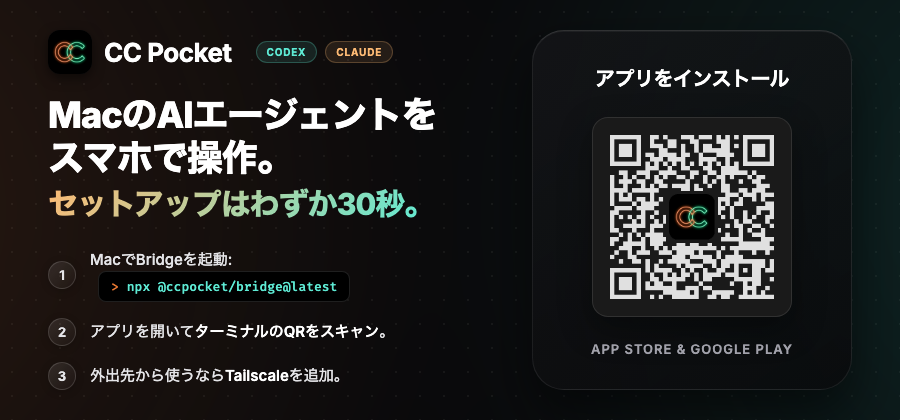
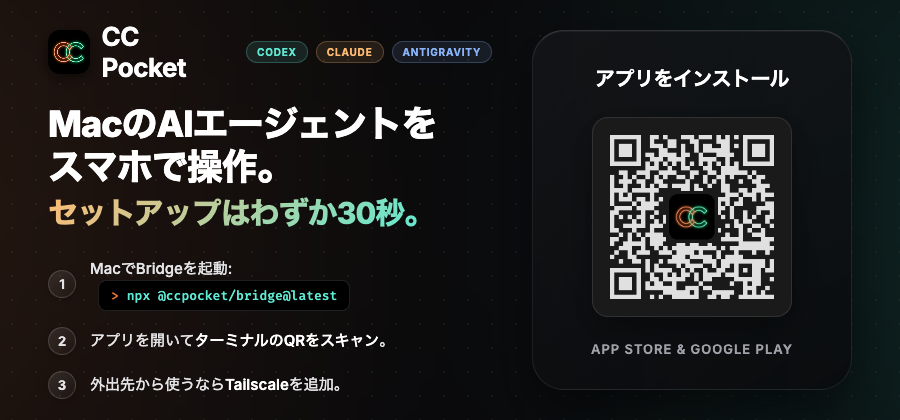
docs(lp): add Antigravity next to Codex and Claude

diff --git a/docs/install/app.js b/docs/install/app.js
@@ -10,7 +10,7 @@ const english = Object.fromEntries(
 Object.assign(english, {
   metaTitle: "CC Pocket — Your agents. In your pocket.",
   metaDescription:
-    "Codex and Claude, built for your phone. Chat, approve, review, and pick up the same work on your Mac. Free and open source.",
+    "Codex, Claude, and Antigravity, built for your phone. Chat, approve, review, and pick up the same work on your Mac. Free and open source.",
   copy: "Copy command",
   copied: "Copied",
   copyFailed: "Select and copy the command above.",
@@ -28,7 +28,7 @@ const translations = {
   ja: {
     metaTitle: "CC Pocket — エージェントを、ポケットに。",
     metaDescription:
-      "CodexとClaudeを、スマホのためのUIで。チャット、承認、差分レビュー。Macと同じセッションを、外出先でも。無料・オープンソース。",
+      "Codex、Claude、Antigravityを、スマホのためのUIで。チャット、承認、差分レビュー。Macと同じセッションを、外出先でも。無料・オープンソース。",
     skip: "本文へ移動",
     navExperience: "できること",
     navSetup: "はじめ方",
@@ -36,7 +36,7 @@ const translations = {
     hero1: "エージェントを、",
     hero2: "ポケットに。",
     heroDesc:
-      "CodexとClaudeを、スマホのためのUIで。思いついたら話しかけて、どこからでも開発の続きを。",
+      "Codex、Claude、Antigravityを、スマホのためのUIで。思いついたら話しかけて、どこからでも開発の続きを。",
     getApp: "CC Pocketを入手",
     quickStart: "はじめ方",
     freeNote: "無料。オープンソース。いつもの開発環境で。",
@@ -67,7 +67,7 @@ const translations = {
       "CodexのImagegenで画像を生成し、チャットで確認。動画や音声ファイルも、アプリを離れず再生できます。",
     setupKicker: "04 — はじめよう",
     setupTitle: "コマンドひとつで接続。",
-    setupDesc: "PCにNode.js 22.19.0以上と、CodexまたはClaudeをご用意ください。",
+    setupDesc: "PCにNode.js 22.19.0以上と、Codex、Claude、Antigravityのいずれかをご用意ください。",
     step1: "Bridgeを起動。",
     step1Desc: "エージェントを使うPCで実行します。",
     step2: "QRをスキャン。",
@@ -82,13 +82,13 @@ const translations = {
     faqTitle: "気になること。",
     faq1Q: "エージェントはどこで動きますか？",
     faq1A:
-      "自分のPC上で、Bridge Serverを通じて動きます。CC PocketはそのPCに接続するクライアントです。AIへのリクエストは、お使いのCodexやClaudeの設定に従って各プロバイダーで処理されます。",
+      "自分のPC上で、Bridge Serverを通じて動きます。CC PocketはそのPCに接続するクライアントです。AIへのリクエストは、お使いのCodex、Claude、Antigravityの設定に従って各プロバイダーで処理されます。",
     faq2Q: "オフラインで、何ができますか？",
     faq2A:
       "メッセージを送信待ちにできます。再接続すると自動で送信され、受け取れなかった更新も復元されます。エージェントの作業を継続するには、PC側の接続が必要です。",
     faq3Q: "無料で使えますか？",
     faq3A:
-      "はい。CC Pocketは無料で使えます。任意のアプリ内サポーター購入も用意しています。CodexやClaudeの利用環境は別途必要です。",
+      "はい。CC Pocketは無料で使えます。任意のアプリ内サポーター購入も用意しています。Codex、Claude、Antigravityの利用環境は別途必要です。",
     footerNote:
       "個人開発のツールです。OpenAI・Anthropicの公式アプリではありません。",
     copy: "コマンドをコピー",
@@ -109,7 +109,7 @@ const translations = {
   zh: {
     metaTitle: "CC Pocket — 把编程智能体，装进口袋。",
     metaDescription:
-      "在手机上使用 Codex 和 Claude。聊天、审批、查看差异，与 Mac 接续同一会话。免费开源。",
+      "在手机上使用 Codex、Claude 和 Antigravity。聊天、审批、查看差异，与 Mac 接续同一会话。免费开源。",
     skip: "跳转到正文",
     navExperience: "使用体验",
     navSetup: "快速开始",
@@ -117,7 +117,7 @@ const translations = {
     hero1: "编程智能体，",
     hero2: "装进口袋。",
     heroDesc:
-      "Codex 和 Claude，配上为手机设计的界面。随时发起对话，随地继续开发。",
+      "Codex、Claude 和 Antigravity，配上为手机设计的界面。随时发起对话，随地继续开发。",
     getApp: "获取 CC Pocket",
     quickStart: "快速开始",
     freeNote: "免费。开源。使用你自己的电脑。",
@@ -146,7 +146,7 @@ const translations = {
       "用 Codex Imagegen 生成图片，在聊天中查看结果。视频和音频文件也能直接在应用中播放。",
     setupKicker: "04 — 开始使用",
     setupTitle: "一条命令，连接手机。",
-    setupDesc: "电脑需安装 Node.js 22.19.0+，以及 Codex 或 Claude。",
+    setupDesc: "电脑需安装 Node.js 22.19.0+，以及 Codex、Claude 或 Antigravity。",
     step1: "启动 Bridge。",
     step1Desc: "在运行智能体的电脑上执行此命令。",
     step2: "扫码连接。",
@@ -161,13 +161,13 @@ const translations = {
     faqTitle: "你可能想知道。",
     faq1Q: "智能体在哪里运行？",
     faq1A:
-      "通过自托管的 Bridge Server 在你的电脑上运行。CC Pocket 是连接客户端。AI 请求仍按现有 Codex 或 Claude 配置交由各自的服务商处理。",
+      "通过自托管的 Bridge Server 在你的电脑上运行。CC Pocket 是连接客户端。AI 请求仍按现有 Codex、Claude 或 Antigravity 配置交由各自的服务商处理。",
     faq2Q: "离线时能做什么？",
     faq2A:
       "消息会加入发送队列。恢复连接后自动发送，并补齐错过的更新。智能体持续工作需要电脑保持联网。",
     faq3Q: "免费吗？",
     faq3A:
-      "是的。CC Pocket 免费使用，也提供可选的应用内支持者购买。你需要自行准备 Codex 或 Claude 的使用权限。",
+      "是的。CC Pocket 免费使用，也提供可选的应用内支持者购买。你需要自行准备 Codex、Claude 或 Antigravity 的使用权限。",
     footerNote: "独立开发工具，与 OpenAI 或 Anthropic 无官方关联。",
     copy: "复制命令",
     copied: "已复制",
@@ -187,7 +187,7 @@ const translations = {
   ko: {
     metaTitle: "CC Pocket — 에이전트를 주머니에.",
     metaDescription:
-      "휴대폰에서 Codex와 Claude를 사용하세요. 대화, 승인, 변경 검토를 하고 Mac에서 같은 세션을 이어 가세요. 무료 오픈 소스.",
+      "휴대폰에서 Codex, Claude, Antigravity를 사용하세요. 대화, 승인, 변경 검토를 하고 Mac에서 같은 세션을 이어 가세요. 무료 오픈 소스.",
     skip: "본문으로 이동",
     navExperience: "기능",
     navSetup: "시작하기",
@@ -195,7 +195,7 @@ const translations = {
     hero1: "에이전트를,",
     hero2: "주머니에.",
     heroDesc:
-      "Codex와 Claude를 휴대폰에 맞춘 UI로. 생각나면 말을 걸고, 어디서든 개발을 이어 가세요.",
+      "Codex, Claude, Antigravity를 휴대폰에 맞춘 UI로. 생각나면 말을 걸고, 어디서든 개발을 이어 가세요.",
     getApp: "CC Pocket 받기",
     quickStart: "시작하기",
     freeNote: "무료. 오픈 소스. 내 컴퓨터에서.",
@@ -228,7 +228,7 @@ const translations = {
     setupKicker: "04 — 시작해 보세요",
     setupTitle: "명령어 하나로 휴대폰과 연결.",
     setupDesc:
-      "컴퓨터에 Node.js 22.19.0 이상과 Codex 또는 Claude가 필요합니다.",
+      "컴퓨터에 Node.js 22.19.0 이상과 Codex, Claude 또는 Antigravity가 필요합니다.",
     step1: "Bridge 실행.",
     step1Desc: "에이전트가 설치된 컴퓨터에서 실행하세요.",
     step2: "QR로 연결.",
@@ -243,13 +243,13 @@ const translations = {
     faqTitle: "몇 가지 알아둘 점.",
     faq1Q: "에이전트는 어디서 실행되나요?",
     faq1A:
-      "자체 호스팅 Bridge Server를 통해 내 컴퓨터에서 실행됩니다. CC Pocket은 연결 클라이언트입니다. AI 요청은 기존 Codex 또는 Claude 설정에 따라 각 제공업체가 처리합니다.",
+      "자체 호스팅 Bridge Server를 통해 내 컴퓨터에서 실행됩니다. CC Pocket은 연결 클라이언트입니다. AI 요청은 기존 Codex, Claude 또는 Antigravity 설정에 따라 각 제공업체가 처리합니다.",
     faq2Q: "오프라인에서 무엇을 할 수 있나요?",
     faq2A:
       "메시지가 전송 대기열에 저장됩니다. 연결이 복원되면 자동 전송되고 놓친 업데이트도 복구됩니다. 에이전트가 계속 작업하려면 컴퓨터가 온라인 상태여야 합니다.",
     faq3Q: "무료인가요?",
     faq3A:
-      "네. CC Pocket은 무료이며 선택적인 앱 내 서포터 구매가 있습니다. Codex 또는 Claude 이용 권한은 별도로 필요합니다.",
+      "네. CC Pocket은 무료이며 선택적인 앱 내 서포터 구매가 있습니다. Codex, Claude 또는 Antigravity 이용 권한은 별도로 필요합니다.",
     footerNote:
       "독립 개발 도구입니다. OpenAI 또는 Anthropic의 공식 앱이 아닙니다.",
     copy: "명령어 복사",

diff --git a/docs/install/index.html b/docs/install/index.html
@@ -6,7 +6,7 @@
     <title>CC Pocket — Your agents. In your pocket.</title>
     <meta
       name="description"
-      content="Codex and Claude, built for your phone. Chat, approve, review, and pick up the same work on your Mac. Free and open source."
+      content="Codex, Claude, and Antigravity, built for your phone. Chat, approve, review, and pick up the same work on your Mac. Free and open source."
     />
     <meta name="theme-color" content="#101011" />
     <meta name="apple-itunes-app" content="app-id=6759188790" />
@@ -24,7 +24,7 @@
     />
     <meta
       property="og:description"
-      content="Codex and Claude, built for your phone. Chat, approve, review, and pick up the same work on your Mac."
+      content="Codex, Claude, and Antigravity, built for your phone. Chat, approve, review, and pick up the same work on your Mac."
     />
     <meta
       property="og:image"
@@ -37,7 +37,7 @@
     />
     <meta
       name="twitter:description"
-      content="Codex and Claude, built for your phone. Chat, approve, review, and pick up the same work on your Mac."
+      content="Codex, Claude, and Antigravity, built for your phone. Chat, approve, review, and pick up the same work on your Mac."
     />
     <meta
       name="twitter:image"
@@ -51,7 +51,7 @@
         "applicationCategory": "DeveloperApplication",
         "operatingSystem": "iOS, iPadOS, Android, macOS, Linux (experimental), Windows (experimental)",
         "url": "https://k9i-0.github.io/ccpocket/install/",
-        "description": "A mobile and desktop client for Codex and Claude, connected through a self-hosted Bridge Server.",
+        "description": "A mobile and desktop client for Codex, Claude, and Antigravity, connected through a self-hosted Bridge Server.",
         "license": "https://opensource.org/license/mit",
         "offers": { "@type": "Offer", "price": "0", "priceCurrency": "USD" }
       }
@@ -102,7 +102,7 @@
             >
           </h1>
           <p class="hero-description" data-i18n="heroDesc">
-            Codex and Claude, with a UI made for your phone. Keep building,
+            Codex, Claude, and Antigravity, with a UI made for your phone. Keep building,
             wherever the day takes you.
           </p>
           <div class="hero-actions">
@@ -121,6 +121,8 @@
             <span class="agent-mark" aria-hidden="true">⌘</span> Codex
             <span class="agent-divider"></span
             ><span class="claude-mark" aria-hidden="true">✳</span> Claude
+            <span class="agent-divider"></span
+            ><span class="antigravity-mark" aria-hidden="true">◈</span> Antigravity
           </div>
         </div>
         <div class="hero-art">
@@ -416,7 +418,7 @@
             One command. Then you’re mobile.
           </h2>
           <p data-i18n="setupDesc">
-            You’ll need Node.js 22.19.0+ and Codex or Claude on your computer.
+            You’ll need Node.js 22.19.0+ and Codex, Claude, or Antigravity on your computer.
           </p>
         </div>
         <div class="setup-grid">
@@ -571,7 +573,7 @@
             <summary data-i18n="faq1Q">Where do my agents run?</summary>
             <p data-i18n="faq1A">
               On your computer, through the self-hosted Bridge Server. CC Pocket
-              connects to it. Your Codex or Claude provider still processes
+              connects to it. Your Codex, Claude, or Antigravity provider still processes
               requests under your existing setup.
             </p>
           </details>
@@ -587,7 +589,7 @@
             <summary data-i18n="faq3Q">Is it free?</summary>
             <p data-i18n="faq3A">
               Yes. CC Pocket is free, with optional in-app Supporter purchases.
-              You’ll need your own Codex or Claude access.
+              You’ll need your own Codex, Claude, or Antigravity access.
             </p>
           </details>
         </div>

diff --git a/docs/architecture/index.html b/docs/architecture/index.html
@@ -14,7 +14,7 @@
   <meta property="og:type" content="article">
   <meta property="og:url" content="https://k9i-0.github.io/ccpocket/architecture/">
   <meta property="og:title" content="CC Pocket Technical Stack for Forks">
-  <meta property="og:description" content="Understand how CC Pocket is built before forking it into a custom Codex or Claude workflow app.">
+  <meta property="og:description" content="Understand how CC Pocket is built before forking it into a custom Codex, Claude, or Antigravity workflow app.">
   <meta property="og:image" content="https://k9i-0.github.io/ccpocket/images/screenshots.png">
   <meta name="twitter:card" content="summary_large_image">
   <meta name="twitter:title" content="CC Pocket Technical Stack for Forks">
@@ -320,7 +320,7 @@
         <h1>Build your own agent workflow on CC Pocket.</h1>
         <p class="lead">
           CC Pocket is a Flutter app plus a TypeScript Bridge Server for running
-          local Codex and Claude sessions from mobile and desktop clients. This
+          local Codex, Claude, and Antigravity sessions from mobile and desktop clients. This
           page explains the stack, boundaries, and extension points for forks.
         </p>
         <div class="cta-row">
@@ -340,7 +340,7 @@
         </div>
         <div class="arrow">local tools, shell, git, filesystem</div>
         <div class="node">
-          <strong>Codex / Claude</strong>
+          <strong>Codex / Claude / Antigravity</strong>
           <span>Agent sessions keep running where the project lives.</span>
         </div>
       </div>

diff --git a/scripts/install-banner/template.html b/scripts/install-banner/template.html
@@ -90,6 +90,7 @@
     background: rgba(255,255,255,0.05);
   }
   .badge.orange { color: #fdba74; border-color: rgba(253, 186, 116, 0.25); background: rgba(253, 186, 116, 0.1); }
+  .badge.blue { color: #8ab4f8; border-color: rgba(138, 180, 248, 0.25); background: rgba(138, 180, 248, 0.1); }
   .badge.teal { color: #5eead4; border-color: rgba(94, 234, 212, 0.25); background: rgba(94, 234, 212, 0.1); }
 
   .headline {
@@ -231,6 +232,7 @@
         <div class="badges" style="margin-left: 12px;">
           <div class="badge teal">Codex</div>
           <div class="badge orange">Claude</div>
+          <div class="badge blue">Antigravity</div>
         </div>
       </div>
 

diff --git a/scripts/install-banner/template.ja.html b/scripts/install-banner/template.ja.html
@@ -90,6 +90,7 @@
     background: rgba(255,255,255,0.05);
   }
   .badge.orange { color: #fdba74; border-color: rgba(253, 186, 116, 0.25); background: rgba(253, 186, 116, 0.1); }
+  .badge.blue { color: #8ab4f8; border-color: rgba(138, 180, 248, 0.25); background: rgba(138, 180, 248, 0.1); }
   .badge.teal { color: #5eead4; border-color: rgba(94, 234, 212, 0.25); background: rgba(94, 234, 212, 0.1); }
 
   .headline {
@@ -231,6 +232,7 @@
         <div class="badges" style="margin-left: 12px;">
           <div class="badge teal">Codex</div>
           <div class="badge orange">Claude</div>
+          <div class="badge blue">Antigravity</div>
         </div>
       </div>
 

diff --git a/docs/how-to-run-codex-from-iphone-android/index.html b/docs/how-to-run-codex-from-iphone-android/index.html
@@ -196,7 +196,7 @@
       <a class="button secondary" href="https://github.com/K9i-0/ccpocket">View on GitHub</a>
     </div>
 
-    <img class="hero-image" src="../images/screenshots.png" alt="CC Pocket mobile app showing Codex and Claude coding-agent sessions">
+    <img class="hero-image" src="../images/screenshots.png" alt="CC Pocket mobile app showing Codex, Claude, and Antigravity coding-agent sessions">
 
     <section>
       <h2>What you need</h2>

diff --git a/docs/codex-remote-control/index.html b/docs/codex-remote-control/index.html
@@ -620,7 +620,7 @@
       </details>
       <details>
         <summary>Can I use it for Claude Code too?</summary>
-        <p>Yes. CC Pocket supports OpenAI Codex and Claude Code through the same self-hosted Bridge Server workflow.</p>
+        <p>Yes. CC Pocket supports OpenAI Codex, Claude Code, and Google Antigravity through the same self-hosted Bridge Server workflow.</p>
       </details>
     </section>
 

diff --git a/apps/mobile/web/index.html b/apps/mobile/web/index.html
@@ -18,7 +18,7 @@
 
   <meta charset="UTF-8">
   <meta content="IE=Edge" http-equiv="X-UA-Compatible">
-  <meta name="description" content="Claude and Codex mobile client">
+  <meta name="description" content="Claude, Codex, and Antigravity mobile client">
 
   <!-- iOS meta tags & icons -->
   <meta name="mobile-web-app-capable" content="yes">

diff --git a/docs/install/style.css b/docs/install/style.css
@@ -274,6 +274,10 @@ h1 {
   color: var(--accent);
   font-size: 28px;
 }
+.antigravity-mark {
+  color: #8ab4f8;
+  font-size: 22px;
+}
 .agent-divider {
   height: 18px;
   width: 1px;

diff --git a/docs/architecture/stack.md b/docs/architecture/stack.md
@@ -15,7 +15,7 @@ CC Pocket app
   <-> JSON WebSocket protocol
 Bridge Server on the user's machine
   <-> local agent tools, shell, git repository, filesystem
-Codex / Claude
+Codex / Claude / Antigravity
 ```
 
 The Bridge Server runs on the machine that has access to the project. The app is
@@ -130,7 +130,7 @@ The app and Bridge communicate over a JSON WebSocket protocol.
 
 Common client-to-server messages:
 
-- `start`: start a new Codex or Claude session
+- `start`: start a new Codex, Claude, or Antigravity session
 - `input`: send user text or attachments
 - `approve` / `reject`: answer permission requests
 - `answer`: answer agent questions
